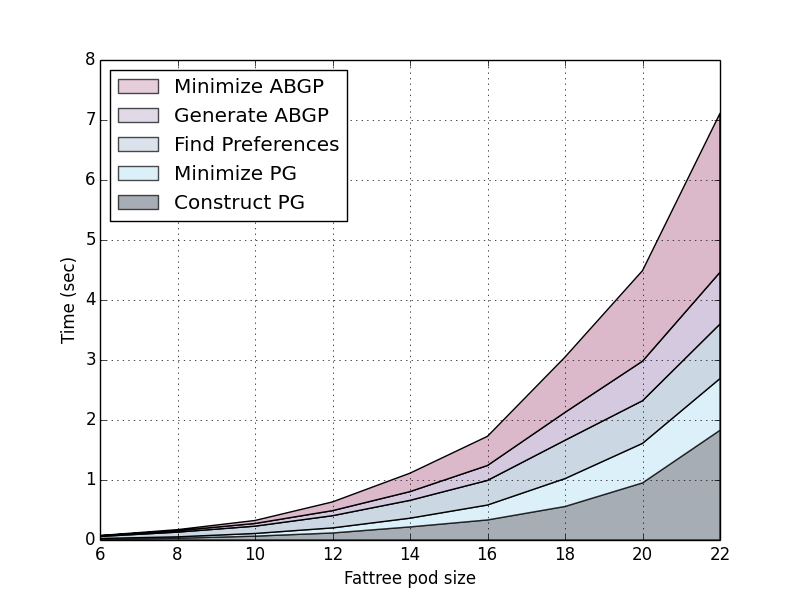
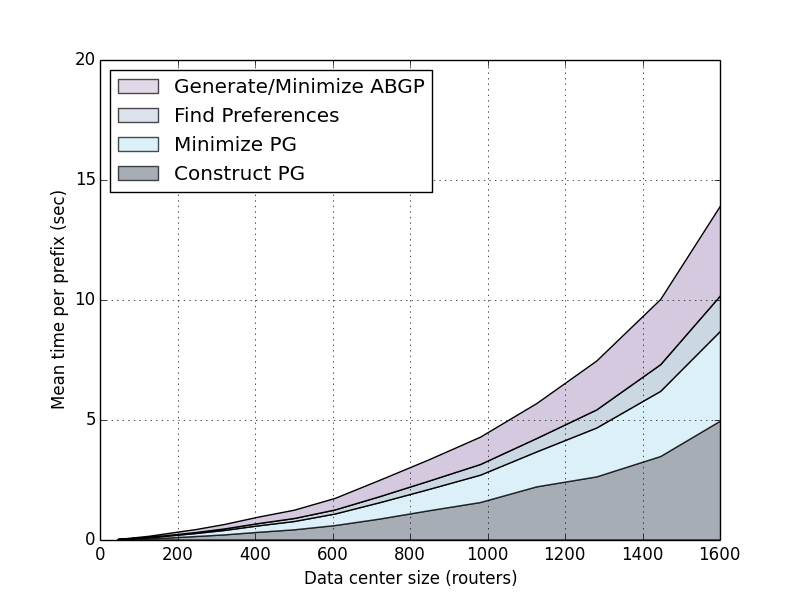
updating figures

diff --git a/data/graph.py b/data/graph.py
@@ -50,7 +50,7 @@ tpp_compress_mean = map(float, tpp_compress_mean[2:])
 #====================================================
 
 # stack data lowest -> highest (build, minimize, order, gen, compress)
-data = (tpp_build_mean, tpp_minimize_mean, tpp_order_mean, tpp_gen_mean, tpp_compress_mean)
+data = (tpp_build_mean, tpp_minimize_mean, tpp_order_mean, tpp_gen_mean)
 foo = np.row_stack( data )
 y_stack = np.cumsum(foo, axis=0)
 
@@ -66,7 +66,7 @@ color1 = "#828A95"
 color2 = "#CEEAF7"
 color3 = "#CCD7E4"
 color4 = "#D5C9DF"
-color5 = "#DCB8CB"
+# color5 = "#DCB8CB"
 
 
 # stacked plot showing different running times
@@ -77,32 +77,34 @@ ax1.fill_between(num_nodes, 0, y_stack[0,:], facecolor=color1, alpha=.7)
 ax1.fill_between(num_nodes, y_stack[0,:], y_stack[1,:], facecolor=color2, alpha=.7)
 ax1.fill_between(num_nodes, y_stack[1,:], y_stack[2,:], facecolor=color3)
 ax1.fill_between(num_nodes, y_stack[2,:], y_stack[3,:], facecolor=color4)
-ax1.fill_between(num_nodes, y_stack[3,:], y_stack[4,:], facecolor=color5)
+#ax1.fill_between(num_nodes, y_stack[3,:], y_stack[4,:], facecolor=color5)
 ax1.set_xlabel('Data center size (routers)')
-ax1.set_ylabel('Time (sec)')
+ax1.set_ylabel('Mean time per prefix (sec)')
+ax1.set_xlim([0,1600])
+ax1.set_ylim([0,20])
 # custom legend for stack color
 p1 = plt.Rectangle((0, 0), 1, 1, fc=color1, alpha=.7)
 p2 = plt.Rectangle((0, 0), 1, 1, fc=color2, alpha=.7)
 p3 = plt.Rectangle((0, 0), 1, 1, fc=color3, alpha=.7)
 p4 = plt.Rectangle((0, 0), 1, 1, fc=color4, alpha=.7)
-p5 = plt.Rectangle((0, 0), 1, 1, fc=color5, alpha=.7)
-leg_boxes = [p5, p4, p3, p2, p1]
-descrs = ["Minimize ABGP", "Generate ABGP", "Find Preferences", "Minimize PG", "Construct PG"]
+#p5 = plt.Rectangle((0, 0), 1, 1, fc=color5, alpha=.7)
+leg_boxes = [p4, p3, p2, p1]
+descrs = ["Generate/Minimize ABGP", "Find Preferences", "Minimize PG", "Construct PG"]
 ax1.legend(leg_boxes, descrs, loc=2)
 fig.savefig('compilation-time-stacked.png')
 
 # plot figures 
 fig = plt.figure()
 plt.grid()
-plt.plot(num_pods, tpp_total_mean, label='Total')
-plt.xlabel('Fattree pod size')
-plt.ylabel('Time (sec)')
+plt.plot(num_nodes, tpp_total_mean, label='Total')
+plt.xlabel('Data center size (routers)')
+plt.ylabel('Mean time per prefix (sec)')
 plt.legend(loc=2)
 fig.savefig('compilation-time.png')
 
 #====================================================
 # 
-# Size of generated vs compressed ABGP (lines)
+# Size of generated vs compressed ABGP (bar)
 #
 #====================================================
 
@@ -121,3 +123,18 @@ leg_boxes = [p1, p3]
 descrs = ["Raw Config", "Minimized Config"]
 ax1.legend(leg_boxes, descrs, loc=2)
 fig.savefig('config-compression-dc.png')
+
+#====================================================
+# 
+# Size of generated vs compressed ABGP (percent line)
+#
+#====================================================
+
+percent_reduction = map(lambda (x,y): float(x-y)/float(x), zip(sizes_raw, sizes_compressed))
+
+fig = plt.figure()
+plt.grid()
+plt.plot(num_nodes, percent_reduction)
+plt.xlabel('Data center size (routers)')
+plt.ylabel('Config size reduction (percent)')
+fig.savefig('config-compression-perc-dc.png')
